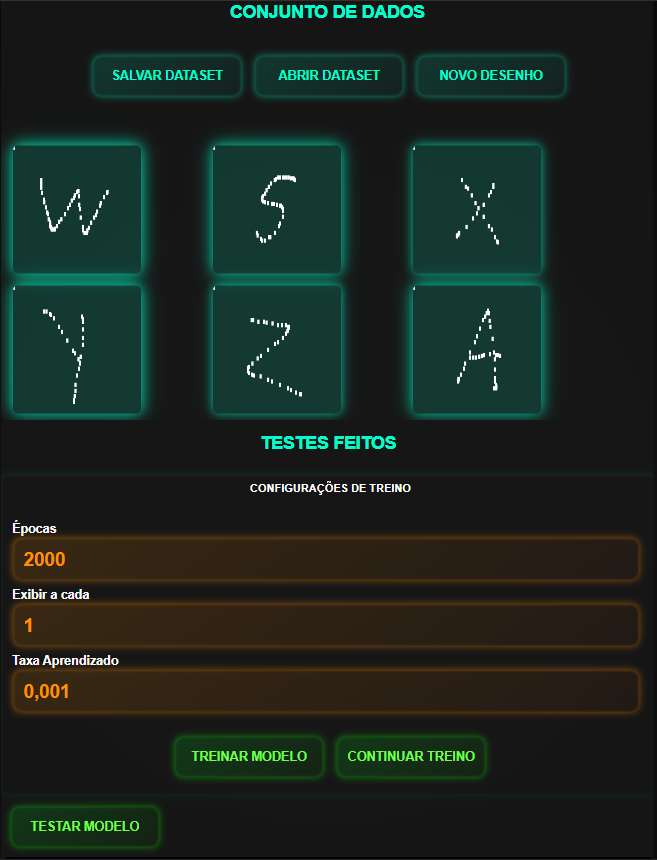
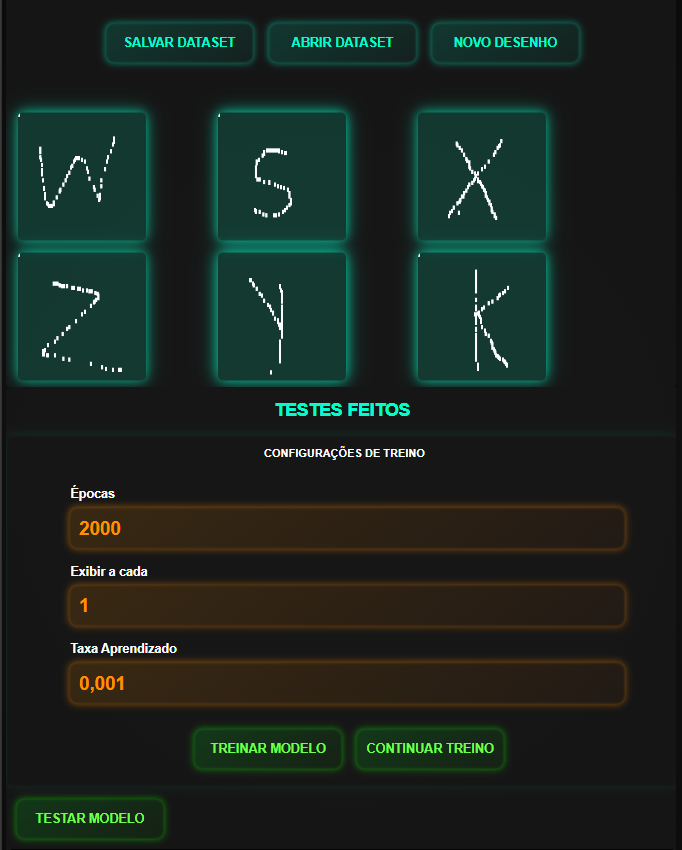
Melhorando o CSS do tablet e nova imagem do tablet

diff --git a/style.css b/style.css
@@ -278,7 +278,7 @@ input:hover {
         flex-direction: column;
         justify-content: center;
         align-items: center;
-        width: 55%;
+        width: 80%;
         padding: 5px;
         margin-top: 15px !important;
     }
